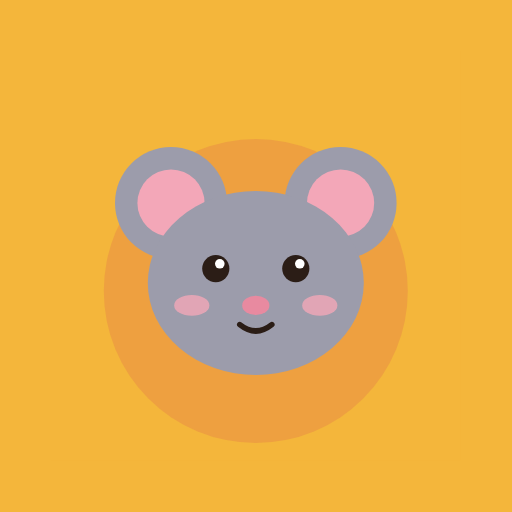
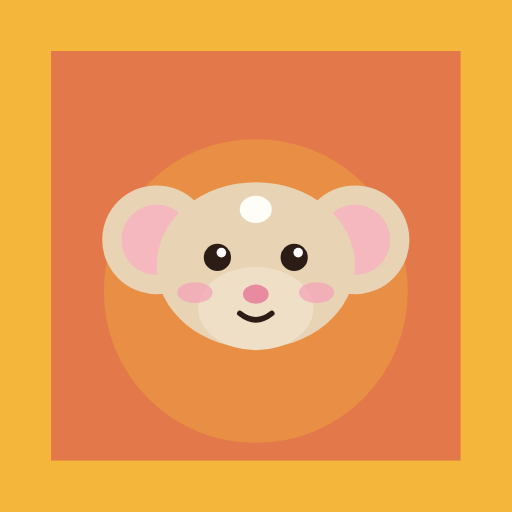
Manchis y Myel como mascotas iniciales, y hámsters con variedades
- Manchis: nueva mascota por defecto, rata beige clarito con pancita
  blanca y una manchita blanca en la frente (opción spot del dibujo)
- Myel: su compañera (antes Pip el ratón), idéntica pero sin manchita;
  conserva el id para no perder el progreso guardado
- Canela (hooded) pasa a la tienda por 30 semillas
- Hámster redibujado con variantes: sirio, enano ruso (raya),
  roborovski (cejitas blancas), panda y pelo largo
- Grupo "Hámsters" en la colección y frases propias en "Juntos"
- Ícono de la app con la cara de Manchis

Claude-Session: https://claude.ai/code/session_013KsyiSCHfmR7rk3NPP8WNS

diff --git a/js/petsvg.js b/js/petsvg.js
@@ -45,8 +45,9 @@ export const PET_SVG = {
       [[62,132],[80,150],[128,136],[140,152],[110,160],[72,160],[138,122]].map(([x,y]) => `<circle cx="${x}" cy="${y}" r="4" fill="${hood}" opacity=".5"/>`).join(''),
     siamese: `<ellipse cx="100" cy="160" rx="52" ry="22" fill="${v.point}" opacity=".18"/>`,
   }[pt] || '';
-  const headMarks = pt === 'hooded' ? `<path d="M100 54 q-7 18 0 34 q7 -16 0 -34z" fill="${fur}"/>`
-    : pt === 'husky' ? `<path d="M100 52 q-16 30 -26 58 q26 14 52 0 q-10 -28 -26 -58z" fill="${white}"/>` : '';
+  const spot = v.spot ? `<ellipse cx="100" cy="64" rx="8" ry="7" fill="#fffdf8"/>` : '';
+  const headMarks = spot + (pt === 'hooded' ? `<path d="M100 54 q-7 18 0 34 q7 -16 0 -34z" fill="${fur}"/>`
+    : pt === 'husky' ? `<path d="M100 52 q-16 30 -26 58 q26 14 52 0 q-10 -28 -26 -58z" fill="${white}"/>` : '');
   const rex = v.rex ? `<g fill="none" stroke="${curl}" stroke-width="2.5" stroke-linecap="round" opacity=".55">
       ${[[60,128],[84,118],[108,124],[132,120],[70,150],[96,146],[124,148],[146,138]].map(([x,y]) => `<path d="M${x} ${y} q4 -7 8 0 q4 7 8 0"/>`).join('')}</g>` : '';
   const rexHead = v.rex ? `<g fill="none" stroke="${mix(H,'#000000',.15)}" stroke-width="2.5" stroke-linecap="round" opacity=".6">
@@ -81,17 +82,43 @@ export const PET_SVG = {
      ${face(100,90,c)}
     </g>
    </g></svg>`; },
- hamster(){ const c={fur:'#e8a94a',light:'#fff1d6',blush:'#f0a0a0',nose:'#d98585',ear:'#f5c98a'}; return `
+ /* Hámster con variantes: v = { pattern, fur, light, cheek, dark }
+    pattern: syrian (sirio) | stripe (enano ruso, raya en la espalda) | robo (roborovski, cejas blancas)
+             panda (blanco y negro) | teddy (pelo largo) */
+ hamster(v = {}){
+  const pt = v.pattern || 'syrian', fur = v.fur || '#e8a94a', light = v.light || '#fff1d6';
+  const cheek = v.cheek || mix(fur, '#ffffff', .2), dark = v.dark || mix(fur, '#000000', .35), ear = v.ear || '#f5c98a';
+  const c = { blush:'#f0a0a0', nose:'#d98585', eye: v.eye };
+  const small = pt === 'robo' || pt === 'stripe';
+  const head = pt === 'panda' ? light : fur;
+  const fluff = pt === 'teddy'
+    ? `<g fill="${mix(fur,'#000000',.06)}">${[[40,140],[44,166],[60,184],[140,184],[156,166],[160,140],[50,116],[150,116]].map(([x,y]) => `<circle cx="${x}" cy="${y}" r="16"/>`).join('')}</g>` : '';
+  const fluffHead = pt === 'teddy'
+    ? `<g fill="${mix(fur,'#000000',.06)}">${[[52,104],[54,122],[148,104],[146,122],[86,54],[100,50],[114,54]].map(([x,y]) => `<circle cx="${x}" cy="${y}" r="11"/>`).join('')}</g>` : '';
+  const bodyMarks = pt === 'panda'
+    ? `<path d="M38 128 q10 -34 62 -36 q52 2 62 36 q-12 18 -62 18 q-50 0 -62 -18z" fill="${fur}"/>`
+    : pt === 'stripe' ? `<path d="M98 82 q-4 40 0 70 h4 q4 -30 0 -70z" fill="${dark}"/>` : '';
+  const headMarks = pt === 'stripe'
+    ? `<path d="M96 52 q4 -2 8 0 l-2 26 h-4 z" fill="${dark}"/>`
+    : pt === 'robo' ? `<ellipse cx="80" cy="74" rx="9" ry="5" fill="#fffaf0"/><ellipse cx="120" cy="74" rx="9" ry="5" fill="#fffaf0"/>`
+    : pt === 'panda' ? `<ellipse cx="68" cy="70" rx="16" ry="12" fill="${fur}" transform="rotate(-25 68 70)"/><ellipse cx="132" cy="70" rx="16" ry="12" fill="${fur}" transform="rotate(25 132 70)"/>` : '';
+  const sc = small ? 'transform="translate(100 186) scale(.9) translate(-100 -186)"' : '';
+  return `
   <svg class="pet" viewBox="0 0 200 200">
-   <g class="body">
-    <ellipse cx="100" cy="134" rx="64" ry="54" fill="${c.fur}"/><ellipse cx="100" cy="148" rx="42" ry="32" fill="${c.light}"/>
-    <ellipse cx="76" cy="180" rx="13" ry="7" fill="${c.ear}"/><ellipse cx="124" cy="180" rx="13" ry="7" fill="${c.ear}"/>
+   <g class="body" ${sc}>
+    ${fluff}
+    <ellipse cx="100" cy="134" rx="64" ry="54" fill="${pt === 'panda' ? light : fur}"/>
+    ${bodyMarks}
+    <ellipse cx="100" cy="150" rx="${pt === 'robo' ? 46 : 42}" ry="${pt === 'robo' ? 34 : 32}" fill="${light}"/>
+    <ellipse cx="76" cy="180" rx="13" ry="7" fill="${ear}"/><ellipse cx="124" cy="180" rx="13" ry="7" fill="${ear}"/>
     <g class="head">
-     <g class="earL"><circle cx="62" cy="62" r="17" fill="${c.fur}"/><circle cx="62" cy="62" r="9" fill="${c.ear}"/></g>
-     <g class="earR"><circle cx="138" cy="62" r="17" fill="${c.fur}"/><circle cx="138" cy="62" r="9" fill="${c.ear}"/></g>
-     <ellipse cx="100" cy="96" rx="54" ry="44" fill="${c.fur}"/>
-     <ellipse cx="66" cy="110" rx="20" ry="16" fill="#f3bd6a"/><ellipse cx="134" cy="110" rx="20" ry="16" fill="#f3bd6a"/>
-     <ellipse cx="100" cy="112" rx="22" ry="16" fill="${c.light}"/>
+     <g class="earL"><circle cx="62" cy="62" r="17" fill="${pt === 'panda' ? fur : head}"/><circle cx="62" cy="62" r="9" fill="${ear}"/></g>
+     <g class="earR"><circle cx="138" cy="62" r="17" fill="${pt === 'panda' ? fur : head}"/><circle cx="138" cy="62" r="9" fill="${ear}"/></g>
+     ${fluffHead}
+     <ellipse cx="100" cy="96" rx="54" ry="44" fill="${head}"/>
+     ${headMarks}
+     <ellipse cx="66" cy="110" rx="20" ry="16" fill="${pt === 'panda' ? '#f4f0ea' : cheek}"/><ellipse cx="134" cy="110" rx="20" ry="16" fill="${pt === 'panda' ? '#f4f0ea' : cheek}"/>
+     <ellipse cx="100" cy="112" rx="22" ry="16" fill="${light}"/>
      ${face(100,88,c)}
     </g>
    </g></svg>`; },

diff --git a/js/data/config.js b/js/data/config.js
@@ -10,7 +10,13 @@
    ===================================================================== */
 export const PETS = [
  // --- Ratas ---
- {id:'rat', name:'Canela', sp:'Rata hooded', svg:'rat', group:'rat', req:{xp:0},
+ {id:'rat', name:'Manchis', sp:'Rata', svg:'rat', group:'rat', req:{xp:0},
+  v:{pattern:'berkshire', hood:'#e8d3b4', ears:'dumbo', spot:true},
+  desc:'Beige clarito, pancita blanca y su manchita blanca en la frente.'},
+ {id:'mouse', name:'Myel', sp:'Rata', svg:'rat', group:'rat', req:{xp:0},
+  v:{pattern:'berkshire', hood:'#e8d3b4', ears:'dumbo'},
+  desc:'Igualita a Manchis, pero sin manchita. Inseparables.'},
+ {id:'rat_hooded', name:'Canela', sp:'Rata hooded', svg:'rat', group:'rat', req:{cost:30},
   v:{pattern:'hooded', fur:'#f7f2ea', hood:'#b07a52', ears:'dumbo'},
   desc:'Las ratas "hooded" tienen la cabeza y una línea en la espalda de color.'},
  {id:'rat_albino', name:'Nieve', sp:'Rata albina', svg:'rat', group:'rat', req:{cost:40},
@@ -54,11 +60,22 @@ export const PETS = [
  {id:'guinea_peru', name:'Fideo', sp:'Cuyo peruano', svg:'guinea', group:'guinea', req:{cost:90},
   v:{pattern:'peruvian', base:'#e9c98f', ear:'#d9a86a'},
   desc:'Su pelo puede crecer más de 30 cm. ¡Necesita peluquería!'},
- // --- Otros amigos ---
- {id:'hamster', name:'Mochi', sp:'Hámster', group:'other', req:{xp:450},
+ // --- Hámsters ---
+ {id:'hamster', name:'Mochi', sp:'Hámster sirio', svg:'hamster', group:'hamster', req:{xp:450},
+  v:{pattern:'syrian', fur:'#e8a94a', light:'#fff1d6', cheek:'#f3bd6a'},
   desc:'Guarda comida en sus cachetes para después.'},
- {id:'mouse', name:'Pip', sp:'Ratón', group:'other', req:{xp:0},
-  desc:'Pequeño, curioso y muy rápido.'},
+ {id:'hamster_russian', name:'Bolita', sp:'Hámster enano ruso', svg:'hamster', group:'hamster', req:{cost:50},
+  v:{pattern:'stripe', fur:'#b9b3ad', light:'#f7f3ee', dark:'#5b524c', ear:'#e8c8b8'},
+  desc:'Tiene una raya oscura en la espalda y en invierno se aclara.'},
+ {id:'hamster_robo', name:'Pulga', sp:'Hámster roborovski', svg:'hamster', group:'hamster', req:{cost:70},
+  v:{pattern:'robo', fur:'#e2b98a', light:'#fffaf0', ear:'#f0cfae'},
+  desc:'El más pequeño y veloz. Tiene "cejitas" blancas.'},
+ {id:'hamster_panda', name:'Chispa', sp:'Hámster panda', svg:'hamster', group:'hamster', req:{learned:60},
+  v:{pattern:'panda', fur:'#3d3532', light:'#fbf8f4', ear:'#e8c8b8'},
+  desc:'Un sirio blanco y negro, como un osito panda.'},
+ {id:'hamster_teddy', name:'Peluche', sp:'Hámster de pelo largo', svg:'hamster', group:'hamster', req:{cost:90},
+  v:{pattern:'teddy', fur:'#ead2a8', light:'#fff6e6', ear:'#f0cfae'},
+  desc:'También llamado "osito de peluche" por su pelo esponjoso.'},
 ];
 
 /** Texto de cómo se consigue una mascota. */
@@ -83,7 +100,7 @@ export const CFG = {
 
 /** Grupos de la colección, en orden de preferencia. */
 export const GROUPS = [
-  {id:'rat', name:'Ratas'}, {id:'rabbit', name:'Conejos'}, {id:'guinea', name:'Cuyos'}, {id:'other', name:'Otros amigos'},
+  {id:'rat', name:'Ratas'}, {id:'rabbit', name:'Conejos'}, {id:'guinea', name:'Cuyos'}, {id:'hamster', name:'Hámsters'},
 ];
 
 export const petDef = id => PETS.find(p => p.id === id) || PETS[0];

diff --git a/js/data/scenes.js b/js/data/scenes.js
@@ -152,5 +152,5 @@ export const PHRASES = {
   rat: [['Rats are very smart.', 'Las ratas somos muy listas.'], ['I like cheese.', 'Me gusta el queso.'], ['Can I sleep in the hammock?', '¿Puedo dormir en la hamaca?']],
   rabbit: [['I like carrots!', '¡Me gustan las zanahorias!'], ['I can jump very high.', 'Puedo saltar muy alto.']],
   guinea: [['Wheek! Wheek!', '¡Uiik! ¡Uiik!'], ['I want vegetables, please.', 'Quiero verduras, por favor.']],
-  other: [['My cheeks are full!', '¡Tengo los cachetes llenos!'], ['I run very fast.', 'Corro muy rápido.']],
+  hamster: [['My cheeks are full!', '¡Tengo los cachetes llenos!'], ['I run very fast.', 'Corro muy rápido.']],
 };

diff --git a/js/data/units.js b/js/data/units.js
@@ -16,11 +16,11 @@ export const UNITS = [
   {en:'yes',es:'sí',s:'___, I like apples.'},
   {en:'sorry',es:'perdón',s:'___, I am late.'},
   {en:'water',es:'agua',s:'I drink ___ every day.'},
-  {en:'friend',es:'amigo',s:'Pip is my ___.'},
+  {en:'friend',es:'amigo',s:'Myel is my ___.'},
   {en:'house',es:'casa',s:'My ___ is small.',alt:['home']},
   {en:'day',es:'día',s:'Have a nice ___!'},
   {en:'night',es:'noche',s:'Good ___, sleep well.'},
-  {en:'name',es:'nombre',s:'My ___ is Pip.'},
+  {en:'name',es:'nombre',s:'My ___ is Manchis.'},
  ]},
  { id:'food', name:'Comida', ico:'🧀', lvl:'A1', words:[
   {en:'apple',es:'manzana',s:'The ___ is red.'},

diff --git a/js/views/yard.js b/js/views/yard.js
@@ -136,7 +136,7 @@ register('yard', renderYard);
 
 function tapPet(a){
   selected = a;
-  const p = petDef(a.id), grp = p.group || 'other';
+  const p = petDef(a.id), grp = p.group || 'rat';
   const [en, es] = pick([...PHRASES.all, ...(PHRASES[grp] || []), ...(isNight() ? PHRASES.night : [])]);
   setState(a, 'happy'); a.busy = Date.now() + 1800;
   clearTimeout(a.timer); a.timer = setTimeout(() => { setState(a, 'idle'); if (selected === a) selected = null; }, 2500);

diff --git a/sw.js b/sw.js
@@ -1,6 +1,6 @@
 // Service worker: permite usar la app sin internet.
 // Estrategia: red primero (para recibir siempre la versión nueva) y, si no hay conexión, la copia guardada.
-const CACHE = 'madriguera-v6';
+const CACHE = 'madriguera-v7';
 const SHELL = [
   './', 'index.html', 'manifest.webmanifest', 'css/styles.css',
   'js/main.js', 'js/util.js', 'js/state.js', 'js/srs.js', 'js/speech.js', 'js/answers.js', 'js/letters.js', 'js/router.js', 'js/petsvg.js',

diff --git a/docs/ROADMAP.md b/docs/ROADMAP.md
@@ -38,7 +38,8 @@ Público: principalmente una mujer de 22 años que ama a los roedores, pero la a
 - [x] Conejos con variedades: enano, belier, holandés, cabeza de león.
 - [x] Cuyos con variedades: tricolor, abisinio, peruano.
 - [x] Espacios comunes (patio, sala, cocina): las mascotas conviven, se visitan, duermen y comen juntas; tocar objetos enseña su nombre en inglés.
-- [ ] Hámsters con variedades (sirio, enano ruso, roborovski).
+- [x] Hámsters con variedades: sirio, enano ruso, roborovski, panda, pelo largo.
+- [x] Manchis (mascota inicial, con manchita en la frente) y Myel, su compañera; Canela pasa a la tienda.
 - [x] Recámara y Huerto (se abren con semillas) y 16 objetos para decorar los espacios comunes; las mascotas juegan con ellos.
 - [ ] Más especies (chinchilla, jerbo, degú, capibara…).
 - [ ] Golosinas en la tienda (yogur, fruta) con reacciones especiales.
